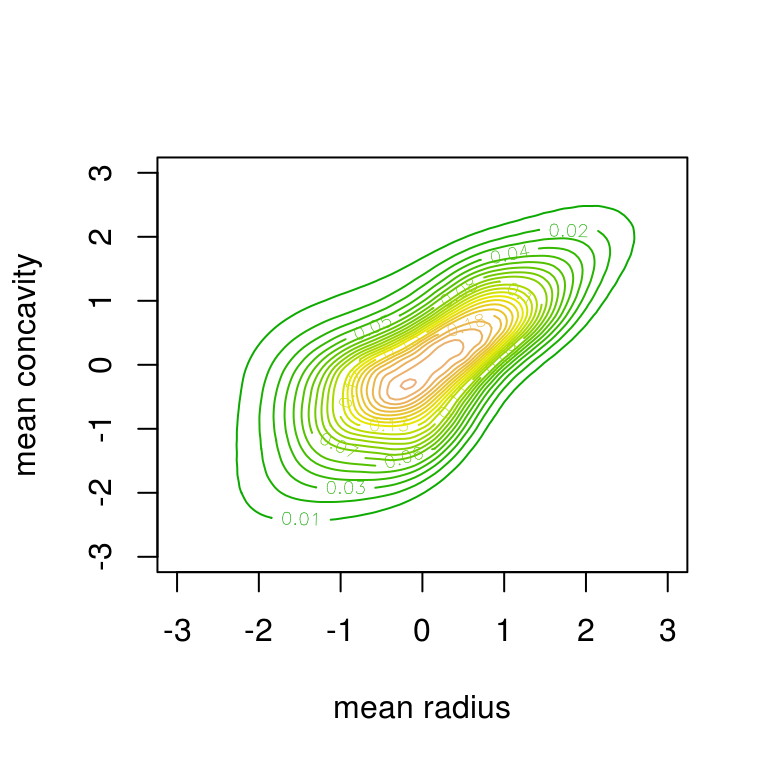
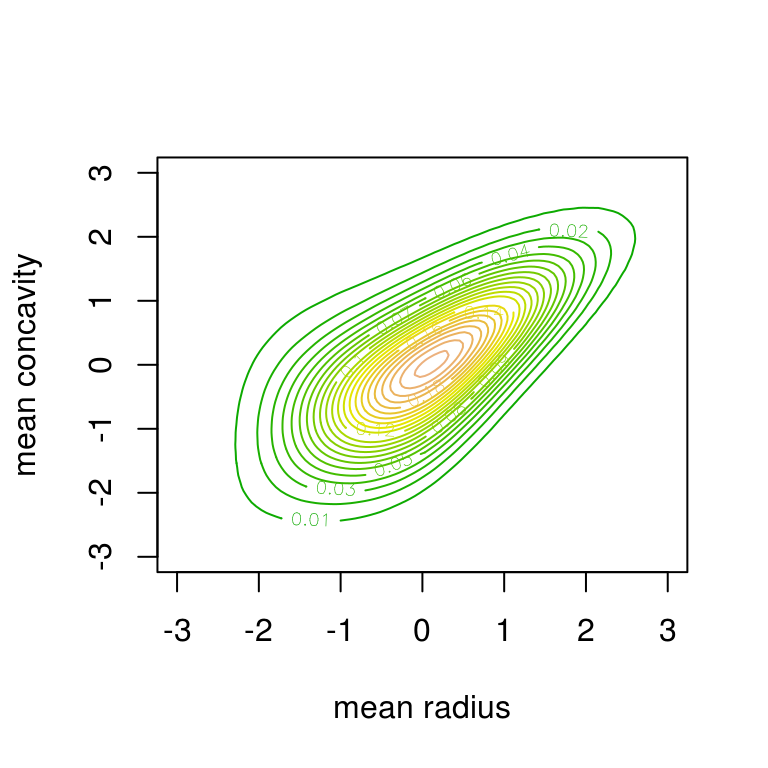
minor fixes for API docs

Changed region(s): [[0.2812, 0.25, 0.8438, 0.6875]]

diff --git a/docs/index.html b/docs/index.html
@@ -29,10 +29,10 @@
     <div id="navbar" class="navbar-collapse collapse">
       <ul class="nav navbar-nav">
 <li>
-  <a href="index.html">Intro</a>
+  <a href="reference/index.html">Reference</a>
 </li>
 <li>
-  <a href="reference/index.html">Reference</a>
+  <a href="news/index.html">News</a>
 </li>
       </ul>
 <ul class="nav navbar-nav navbar-right">
@@ -139,17 +139,16 @@ u &lt;-<span class="st"> </span><span class="kw">apply</span>(wdbc[, <span class
 <span class="co">#&gt; ------------------------------</span>
 <span class="co">#&gt; Variables:    mean radius -- mean concavity </span>
 <span class="co">#&gt; Observations: 569 </span>
-<span class="co">#&gt; Method:       Transformation local likelihood, log-quadratic (nearest-neighbor, 'TLL2nn') </span>
-<span class="co">#&gt; Bandwidth:    alpha = 0.3519647</span>
-<span class="co">#&gt;               B = matrix(c(0.71, 0.7, -0.7, 0.71), 2, 2)</span>
+<span class="co">#&gt; Method:       Transformation local likelihood, log-quadratic ('TLL2') </span>
+<span class="co">#&gt; Bandwidth:    matrix(c(2.63, 1.67, 0, 2.01), 2, 2)</span>
 <span class="co">#&gt; ---</span>
-<span class="co">#&gt; logLik: 201.22    AIC: -367.97    cAIC: -366.83    BIC: -293.11 </span>
-<span class="co">#&gt; Effective number of parameters: 17.23</span></code></pre></div>
+<span class="co">#&gt; logLik: 192.56    AIC: -364.08    cAIC: -363.65    BIC: -318.4 </span>
+<span class="co">#&gt; Effective number of parameters: 10.52</span></code></pre></div>
 <p>The output of the function <code>kdecop</code> is an object of class <code>kdecopula</code> that contains all information collected during the estimation process and summary statistics such as <em>AIC</em> or the <em>effective number of parameters/degrees of freedom</em>. These can also be accessed directly, e.g.</p>
 <div class="sourceCode"><pre class="sourceCode r"><code class="sourceCode r"><span class="kw">logLik</span>(kde.fit)
-<span class="co">#&gt; 'log Lik.' 201.2196 (df=17.23373)</span>
+<span class="co">#&gt; 'log Lik.' 192.5555 (df=10.51571)</span>
 <span class="kw">AIC</span>(kde.fit)
-<span class="co">#&gt; [1] -367.9718</span></code></pre></div>
+<span class="co">#&gt; [1] -364.0797</span></code></pre></div>
 </div>
 <div id="plotting-bivariate-copula-densities" class="section level4">
 <h4 class="hasAnchor">
@@ -176,9 +175,9 @@ u &lt;-<span class="st"> </span><span class="kw">apply</span>(wdbc[, <span class
 <a href="#working-with-a-kdecopula-object" class="anchor"></a>Working with a <code>kdecopula</code> object</h4>
 <p>The density and <em>cdf</em> can be computed easily:</p>
 <div class="sourceCode"><pre class="sourceCode r"><code class="sourceCode r"><span class="kw"><a href="reference/dkdecop.html">dkdecop</a></span>(<span class="kw">c</span>(<span class="fl">0.1</span>, <span class="fl">0.2</span>), kde.fit)  <span class="co"># estimated copula density</span>
-<span class="co">#&gt; [1] 1.691764</span>
+<span class="co">#&gt; [1] 1.749972</span>
 <span class="kw"><a href="reference/dkdecop.html">pkdecop</a></span>(<span class="kw">cbind</span>(<span class="kw">c</span>(<span class="fl">0.1</span>, <span class="fl">0.9</span>), <span class="kw">c</span>(<span class="fl">0.1</span>, <span class="fl">0.9</span>)), kde.fit) <span class="co"># corresponding copula cdf</span>
-<span class="co">#&gt; [1] 0.0327257 0.8505370</span></code></pre></div>
+<span class="co">#&gt; [1] 0.03348617 0.85141586</span></code></pre></div>
 <p>Furthermore, we can simulate synthetic data from the estimated density:</p>
 <div class="sourceCode"><pre class="sourceCode r"><code class="sourceCode r">unew &lt;-<span class="st"> </span><span class="kw"><a href="reference/dkdecop.html">rkdecop</a></span>(<span class="dv">655</span>, kde.fit)
 <span class="kw">plot</span>(unew)</code></pre></div>

diff --git a/docs/reference/index.html b/docs/reference/index.html
@@ -51,10 +51,10 @@
     <div id="navbar" class="navbar-collapse collapse">
       <ul class="nav navbar-nav">
         <li>
-  <a href="../index.html">Intro</a>
+  <a href="../reference/index.html">Reference</a>
 </li>
 <li>
-  <a href="../reference/index.html">Reference</a>
+  <a href="../news/index.html">News</a>
 </li>
       </ul>
       
@@ -211,6 +211,20 @@ estimator</p></td>
           </td>
           <td><p>Nearest-neighbor bandwidth selection for the tapered transformation estimator</p></td>
         </tr>
+      </tbody><tbody>
+        <tr>
+          <th colspan="2">
+            <h2 id="section-data-sets" class="hasAnchor"><a href="#section-data-sets" class="anchor"></a>Data sets</h2>
+            <p class="section-desc"></p>
+          </th>
+        </tr>
+        <tr>
+          <!--  -->
+          <td>
+            <p><code><a href="wdbc.html">wdbc</a></code> </p>
+          </td>
+          <td><p>Wisconsin Diagnostic Breast Cancer (WDBC)</p></td>
+        </tr>
       </tbody>
       </table>
     </div>
@@ -222,6 +236,7 @@ estimator</p></td>
       <li><a href="#section-kernel-estimation">Kernel estimation</a></li>
       <li><a href="#section-utilities">Utilities</a></li>
       <li><a href="#section-bandwidth-selection">Bandwidth selection</a></li>
+      <li><a href="#section-data-sets">Data sets</a></li>
     </ul>
   </div>
 </div>

diff --git a/docs/news/index.html b/docs/news/index.html
@@ -51,10 +51,10 @@
     <div id="navbar" class="navbar-collapse collapse">
       <ul class="nav navbar-nav">
         <li>
-  <a href="../index.html">Intro</a>
+  <a href="../reference/index.html">Reference</a>
 </li>
 <li>
-  <a href="../reference/index.html">Reference</a>
+  <a href="../news/index.html">News</a>
 </li>
       </ul>
       

diff --git a/docs/authors.html b/docs/authors.html
@@ -51,10 +51,10 @@
     <div id="navbar" class="navbar-collapse collapse">
       <ul class="nav navbar-nav">
         <li>
-  <a href="index.html">Intro</a>
+  <a href="reference/index.html">Reference</a>
 </li>
 <li>
-  <a href="reference/index.html">Reference</a>
+  <a href="news/index.html">News</a>
 </li>
       </ul>
       

diff --git a/README.md b/README.md
@@ -92,21 +92,20 @@ summary(kde.fit)
 #> ------------------------------
 #> Variables:    mean radius -- mean concavity 
 #> Observations: 569 
-#> Method:       Transformation local likelihood, log-quadratic (nearest-neighbor, 'TLL2nn') 
-#> Bandwidth:    alpha = 0.3519647
-#>               B = matrix(c(0.71, 0.7, -0.7, 0.71), 2, 2)
+#> Method:       Transformation local likelihood, log-quadratic ('TLL2') 
+#> Bandwidth:    matrix(c(2.63, 1.67, 0, 2.01), 2, 2)
 #> ---
-#> logLik: 201.22    AIC: -367.97    cAIC: -366.83    BIC: -293.11 
-#> Effective number of parameters: 17.23
+#> logLik: 192.56    AIC: -364.08    cAIC: -363.65    BIC: -318.4 
+#> Effective number of parameters: 10.52
 ```
 
 The output of the function `kdecop` is an object of class `kdecopula` that contains all information collected during the estimation process and summary statistics such as *AIC* or the *effective number of parameters/degrees of freedom*. These can also be accessed directly, e.g.
 
 ``` r
 logLik(kde.fit)
-#> 'log Lik.' 201.2196 (df=17.23373)
+#> 'log Lik.' 192.5555 (df=10.51571)
 AIC(kde.fit)
-#> [1] -367.9718
+#> [1] -364.0797
 ```
 
 #### Plotting bivariate copula densities
@@ -156,9 +155,9 @@ The density and *cdf* can be computed easily:
 
 ``` r
 dkdecop(c(0.1, 0.2), kde.fit)  # estimated copula density
-#> [1] 1.691764
+#> [1] 1.749972
 pkdecop(cbind(c(0.1, 0.9), c(0.1, 0.9)), kde.fit) # corresponding copula cdf
-#> [1] 0.0327257 0.8505370
+#> [1] 0.03348617 0.85141586
 ```
 
 Furthermore, we can simulate synthetic data from the estimated density:
